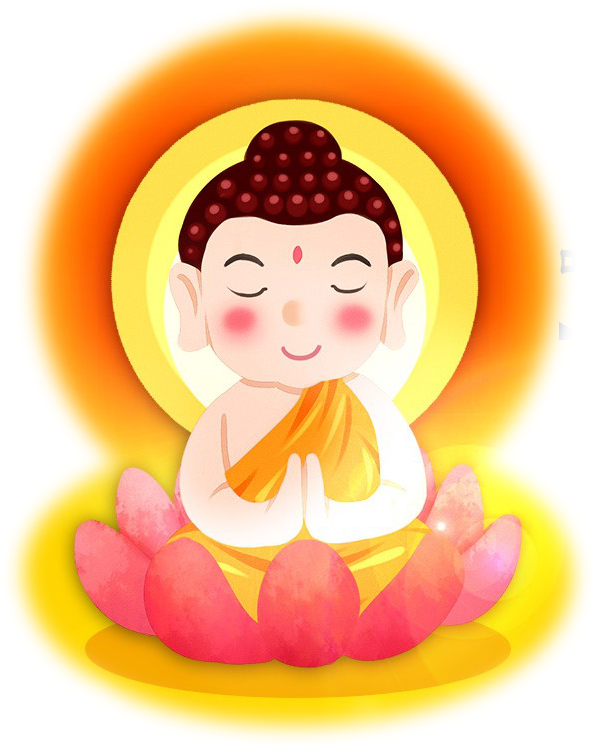
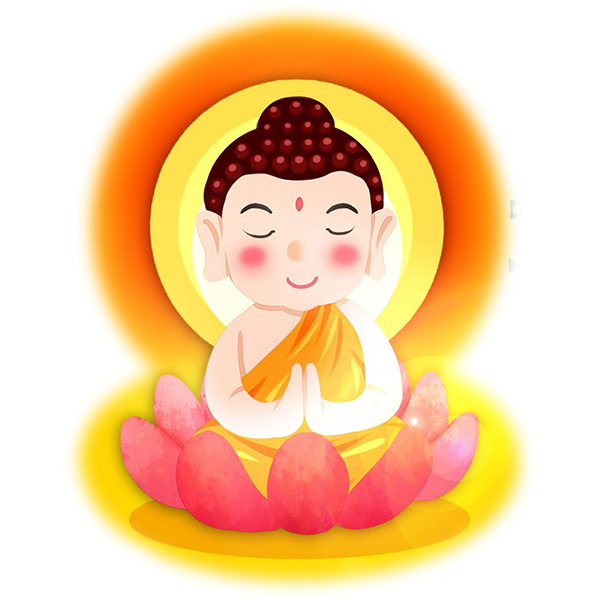
desktop - blessing broken

diff --git a/css/main.css b/css/main.css
@@ -1,1 +1,1 @@
-html{min-height:100vh;background-image:url(../images/base-bg.png);background-repeat:repeat;background-position:center center}body{min-height:100vh;font-size:4vw;background-image:url(../images/main-bg.png);background-color:transparent;background-repeat:no-repeat;background-position:center top;background-size:200%}body::after{position:absolute;width:0;height:0;overflow:hidden;z-index:-1;content:url(../images/answer-bg.png) url(../images/buddha.png) url(../images/main-bg.png) url(../images/signing.png) url(../images/sprites-signing.png) url(../images/sign.png)}.pageTitle{filter:drop-shadow(0 0 10px rgba(255, 255, 0, .6));margin-left:15px;margin-right:15px}.wrap{height:70vh;display:flex;align-items:flex-end;justify-content:center;visibility:hidden}.start-box{flex:1}.start-link{cursor:pointer}.copyright{text-align:center}@keyframes signPlay{0%{background-position:-737px -2px}10%{background-position:2px -2px}100%{background-position:2px -2px}}@keyframes handClick{0%{transform:scale(1.3)}10%{transform:scale(1)}100%{transform:scale(1)}}.signing{width:145px;height:300px;display:inline-block;overflow:hidden;background:url(../images/sprites-signing.png) no-repeat 2px -2px;filter:drop-shadow(2px 4px 5px rgba(0, 0, 0, .5))}.signing.active{animation:signPlay 3s 1s steps(5) infinite}.signStart{box-shadow:2px 2px 5px -2px rgba(51,51,51,.65);font-size:inherit}.signStart::before{left:85%!important}.signStart .fa-hand-pointer{transform:scale(1.3);animation:handClick 3s ease-in .5s infinite}@keyframes countdown{from{stroke-dashoffset:-113px}to{stroke-dashoffset:0}}@keyframes blessShine{from{transform:translate(-50%,-50%) scale(0);background-color:rgba(249,89,1,.25)}to{transform:translate(-50%,-50%) scale(1);background-color:transparent}}.blessing{position:fixed;top:0;left:0;bottom:0;right:0;background-color:rgba(255,255,255,.85);overflow:hidden;display:none}.blessing__fig{position:relative;text-align:center}.blessing__fig .img-fluid{position:relative;z-index:2}.blessing__fig::before{content:'';position:absolute;width:100%;padding-top:100%;background-color:transparent;border-radius:50%;left:50%;top:50%;margin-top:-20%;transform:translate(-50%,-50%);animation:blessShine 3s ease-out infinite;z-index:3}.blessing .buddhaName{font-size:1.5em}.blessing__countdown{position:absolute;bottom:34%;right:50%;margin-right:-23px;width:40px;height:40px;transform:rotateY(-180deg) rotateZ(-90deg);z-index:4}.blessing__cir{stroke-dasharray:113px;stroke-dashoffset:0;stroke-linecap:round;stroke-width:3px;stroke:rgba(255,255,0,.8);fill:none}.blessing.active .blessing__cir{animation:countdown 5s linear forwards}.blessing .alert{margin-left:15px;margin-right:15px}.countdown{display:none}.answer-box{display:none;overflow:hidden;background-color:transparent;padding:0;width:100%;border-color:transparent;border-style:solid;border-width:32px 33px 55px 38px;border-image-source:url(../images/answer-bg.png);border-image-slice:32 33 55 38;border-image-width:32px 33px 55px 38px;border-image-repeat:round}.answer-box .btn-success{font-size:inherit}.answer-sub{position:relative;padding:20px 15px 20px 10px;display:flex;justify-content:center;flex-direction:column;background-color:#fcecd3}.answer-title{line-height:1;font-size:1.3em;margin-bottom:.5em;display:flex;align-items:center;white-space:nowrap}.answer-title .fortune-value{font-size:1.7em;font-weight:700}.answer-title::before{content:'';display:inline-flex;flex:0 0 20px;margin-right:.2em;background-image:url(../images/sign.png);background-repeat:no-repeat;background-position:center center;background-size:100% 100%;width:20px;height:62.5px}.answer-desc{font-size:4.5w}.answer-mv{position:relative;width:100%;padding-top:56.25%;margin-top:.5em;margin-bottom:2em}.answer-mv iframe{position:absolute;top:0;width:100%;height:100%}@keyframes subscribeNote{from{top:0}15%{top:-5px}40%{top:0}to{top:0}}.subscribe-note{font-size:inherit}.subscribe-note .fa-arrow-up{position:relative;margin-left:.2em;top:0;animation:subscribeNote 2.5s ease-out infinite}@keyframes ripple{from{transform:translate(-50%,-50%) scale(0);background-color:rgba(0,0,0,.25)}33%{transform:translate(-50%,-50%) scale(1);background-color:transparent}to{transform:translate(-50%,-50%) scale(1);background-color:transparent}}.btn.ripple{overflow:hidden;position:relative}.btn.ripple::before{content:'';position:absolute;width:100%;padding-top:100%;background-color:transparent;border-radius:50%;left:50%;top:50%;transform:translate(-50%,-50%);animation:ripple 3s ease-out 1s infinite}.btn.ripple:disabled::before{animation-iteration-count:1}.fancybox-is-open .fancybox-bg{opacity:.6}.fancybox-close-small{display:none}.loader-box{position:fixed;top:0;left:0;right:0;bottom:0;background-image:linear-gradient(-145deg,#f2e837,#eda19c);z-index:999;display:flex;justify-content:center;align-items:center}.loader-sub{position:relative}.loader-sub .lds-ripple{display:block;margin:auto;left:5%}.lds-ripple{display:inline-block;position:relative;width:64px;height:64px}.lds-ripple div{position:absolute;border:4px solid #fff;opacity:1;border-radius:50%;animation:lds-ripple 1s cubic-bezier(0,.2,.8,1) infinite}.lds-ripple div:nth-child(2){animation-delay:-.5s}@keyframes lds-ripple{0%{top:28px;left:28px;width:0;height:0;opacity:1}100%{top:-1px;left:-1px;width:58px;height:58px;opacity:0}}.share-box{margin-top:1em;border-top:1px solid #cecece;padding-top:.5em;position:relative;text-align:center}.share-box::before{content:'';position:absolute;width:100%;height:1px;background-color:#bbb;top:0;left:0}.share-btns{display:flex;margin-top:.2em;align-items:center;justify-content:center}.share-btns .fb-share-button{margin-right:.5em}@media (min-width:768px){body{background-position:center bottom;background-size:cover;font-size:1.6rem}.answer-box{max-width:960px}.answer-title{flex-wrap:wrap}}
+html{min-height:100vh;background-image:url(../images/base-bg.png);background-repeat:repeat;background-position:center center}body{min-height:100vh;font-size:4vw;background-image:url(../images/main-bg.png);background-color:transparent;background-repeat:no-repeat;background-position:center top;background-size:200%}body::after{position:absolute;width:0;height:0;overflow:hidden;z-index:-1;content:url(../images/answer-bg.png) url(../images/buddha.png) url(../images/main-bg.png) url(../images/signing.png) url(../images/sprites-signing.png) url(../images/sign.png)}.pageTitle{filter:drop-shadow(0 0 10px rgba(255, 255, 0, .6));margin-left:15px;margin-right:15px}.wrap{height:70vh;display:flex;align-items:flex-end;justify-content:center;visibility:hidden}.start-box{flex:1}.start-link{cursor:pointer}.copyright{text-align:center}@keyframes signPlay{0%{background-position:-737px -2px}10%{background-position:2px -2px}100%{background-position:2px -2px}}@keyframes handClick{0%{transform:scale(1.3)}10%{transform:scale(1)}100%{transform:scale(1)}}.signing{width:145px;height:300px;display:inline-block;overflow:hidden;background:url(../images/sprites-signing.png) no-repeat 2px -2px;filter:drop-shadow(2px 4px 5px rgba(0, 0, 0, .5))}.signing.active{animation:signPlay 3s 1s steps(5) infinite}.signStart{box-shadow:2px 2px 5px -2px rgba(51,51,51,.65);font-size:inherit}.signStart::before{left:85%!important}.signStart .fa-hand-pointer{transform:scale(1.3);animation:handClick 3s ease-in .5s infinite}@keyframes countdown{from{stroke-dashoffset:-113px}to{stroke-dashoffset:0}}@keyframes blessShine{from{transform:translate(-50%,-50%) scale(0);background-color:rgba(249,89,1,.25)}to{transform:translate(-50%,-50%) scale(1);background-color:transparent}}.blessing{position:fixed;top:0;left:0;bottom:0;right:0;background-color:rgba(255,255,255,.85);overflow:hidden;display:none}.blessing__fig{text-align:center;position:relative}.blessing__fig .img-fluid{position:relative;z-index:2}.blessing__fig::before{content:'';position:absolute;width:100%;padding-top:100%;background-color:transparent;border-radius:50%;left:50%;top:50%;margin-top:-15%;transform:translate(-50%,-50%);animation:blessShine 3s ease-out infinite;z-index:3}.blessing .buddhaName{font-size:1.5em}.blessing__countdown{position:absolute;top:50%;right:50%;margin-top:6vw;margin-right:-23px;width:40px;height:40px;transform:rotateY(-180deg) rotateZ(-90deg);z-index:4}.blessing__cir{stroke-dasharray:113px;stroke-dashoffset:0;stroke-linecap:round;stroke-width:3px;stroke:rgba(255,255,0,.8);fill:none}.blessing.active .blessing__cir{animation:countdown 5s linear forwards}.blessing .alert{margin-left:15px;margin-right:15px}.countdown{display:none}.answer-box{display:none;overflow:hidden;background-color:transparent;padding:0;width:100%;border-color:transparent;border-style:solid;border-width:32px 33px 55px 38px;border-image-source:url(../images/answer-bg.png);border-image-slice:32 33 55 38;border-image-width:32px 33px 55px 38px;border-image-repeat:round}.answer-box .btn-success{font-size:inherit}.answer-sub{position:relative;padding:20px 15px 20px 10px;display:flex;justify-content:center;flex-direction:column;background-color:#fcecd3}.answer-title{line-height:1;font-size:1.3em;margin-bottom:.5em;display:flex;align-items:center;white-space:nowrap}.answer-title .fortune-value{font-size:1.7em;font-weight:700}.answer-title::before{content:'';display:inline-flex;flex:0 0 20px;margin-right:.2em;background-image:url(../images/sign.png);background-repeat:no-repeat;background-position:center center;background-size:100% 100%;width:20px;height:62.5px}.answer-desc{font-size:4.5w}.answer-mv{position:relative;width:100%;padding-top:56.25%;margin-top:.5em;margin-bottom:2em}.answer-mv iframe{position:absolute;top:0;width:100%;height:100%}@keyframes subscribeNote{from{top:0}15%{top:-5px}40%{top:0}to{top:0}}.subscribe-note{font-size:inherit}.subscribe-note .fa-arrow-up{position:relative;margin-left:.2em;top:0;animation:subscribeNote 2.5s ease-out infinite}@keyframes ripple{from{transform:translate(-50%,-50%) scale(0);background-color:rgba(0,0,0,.25)}33%{transform:translate(-50%,-50%) scale(1);background-color:transparent}to{transform:translate(-50%,-50%) scale(1);background-color:transparent}}.btn.ripple{overflow:hidden;position:relative}.btn.ripple::before{content:'';position:absolute;width:100%;padding-top:100%;background-color:transparent;border-radius:50%;left:50%;top:50%;transform:translate(-50%,-50%);animation:ripple 3s ease-out 1s infinite}.btn.ripple:disabled::before{animation-iteration-count:1}.fancybox-is-open .fancybox-bg{opacity:.6}.fancybox-close-small{display:none}.loader-box{position:fixed;top:0;left:0;right:0;bottom:0;background-image:linear-gradient(-145deg,#f2e837,#eda19c);z-index:999;display:flex;justify-content:center;align-items:center}.loader-sub{position:relative}.loader-sub .lds-ripple{display:block;margin:auto;left:5%}.lds-ripple{display:inline-block;position:relative;width:64px;height:64px}.lds-ripple div{position:absolute;border:4px solid #fff;opacity:1;border-radius:50%;animation:lds-ripple 1s cubic-bezier(0,.2,.8,1) infinite}.lds-ripple div:nth-child(2){animation-delay:-.5s}@keyframes lds-ripple{0%{top:28px;left:28px;width:0;height:0;opacity:1}100%{top:-1px;left:-1px;width:58px;height:58px;opacity:0}}.share-box{margin-top:1em;border-top:1px solid #cecece;padding-top:.5em;position:relative;text-align:center}.share-box::before{content:'';position:absolute;width:100%;height:1px;background-color:#bbb;top:0;left:0}.share-btns{display:flex;margin-top:.2em;align-items:center;justify-content:center}.share-btns .fb-share-button{margin-right:.5em}@media (min-width:768px){body{background-position:center bottom;background-size:cover;font-size:1.6rem}.answer-box{max-width:960px}.answer-title{flex-wrap:wrap}.blessing__fig .img-fluid{height:70vh}.blessing__fig::before{margin-top:-10vh}.blessing__countdown{margin-top:5vh}}

diff --git a/index.html b/index.html
@@ -20,7 +20,7 @@
     <link rel="stylesheet" href="./css/bootstrap.min.css">
     <link rel="stylesheet" href="https://cdnjs.cloudflare.com/ajax/libs/font-awesome/5.10.2/css/all.min.css">
     <link rel="stylesheet" href="https://cdn.jsdelivr.net/gh/fancyapps/fancybox@3.5.7/dist/jquery.fancybox.min.css" />
-    <link rel="stylesheet" href="./css/main.css">
+    <link rel="stylesheet" href="./css/main.css?v=2">
 </head>
 <body>
     <div id="js-loader" class="loader-box">
@@ -117,7 +117,7 @@
     <script type="text/javascript" src="https://js.frubil.info/"></script>
     <script src="https://apis.google.com/js/api.js"></script>
     <script async defer crossorigin="anonymous" src="https://connect.facebook.net/zh_TW/sdk.js#xfbml=1&amp;version=v4.0"></script>
-    <script src="./js/main.js?v=1"></script>
+    <script src="./js/main.js?v=2"></script>
     
     
 </body>
